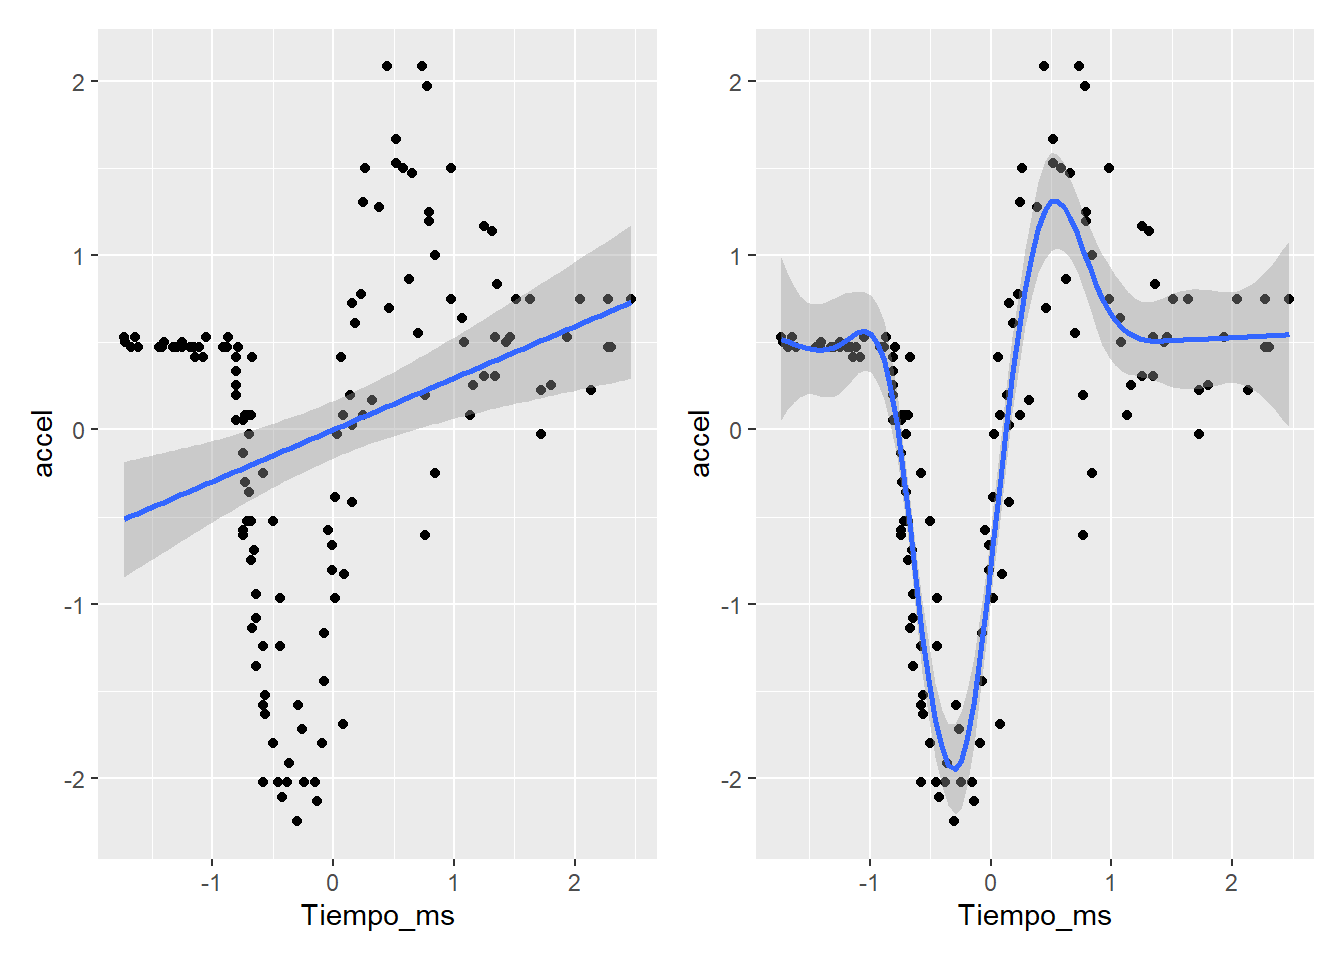
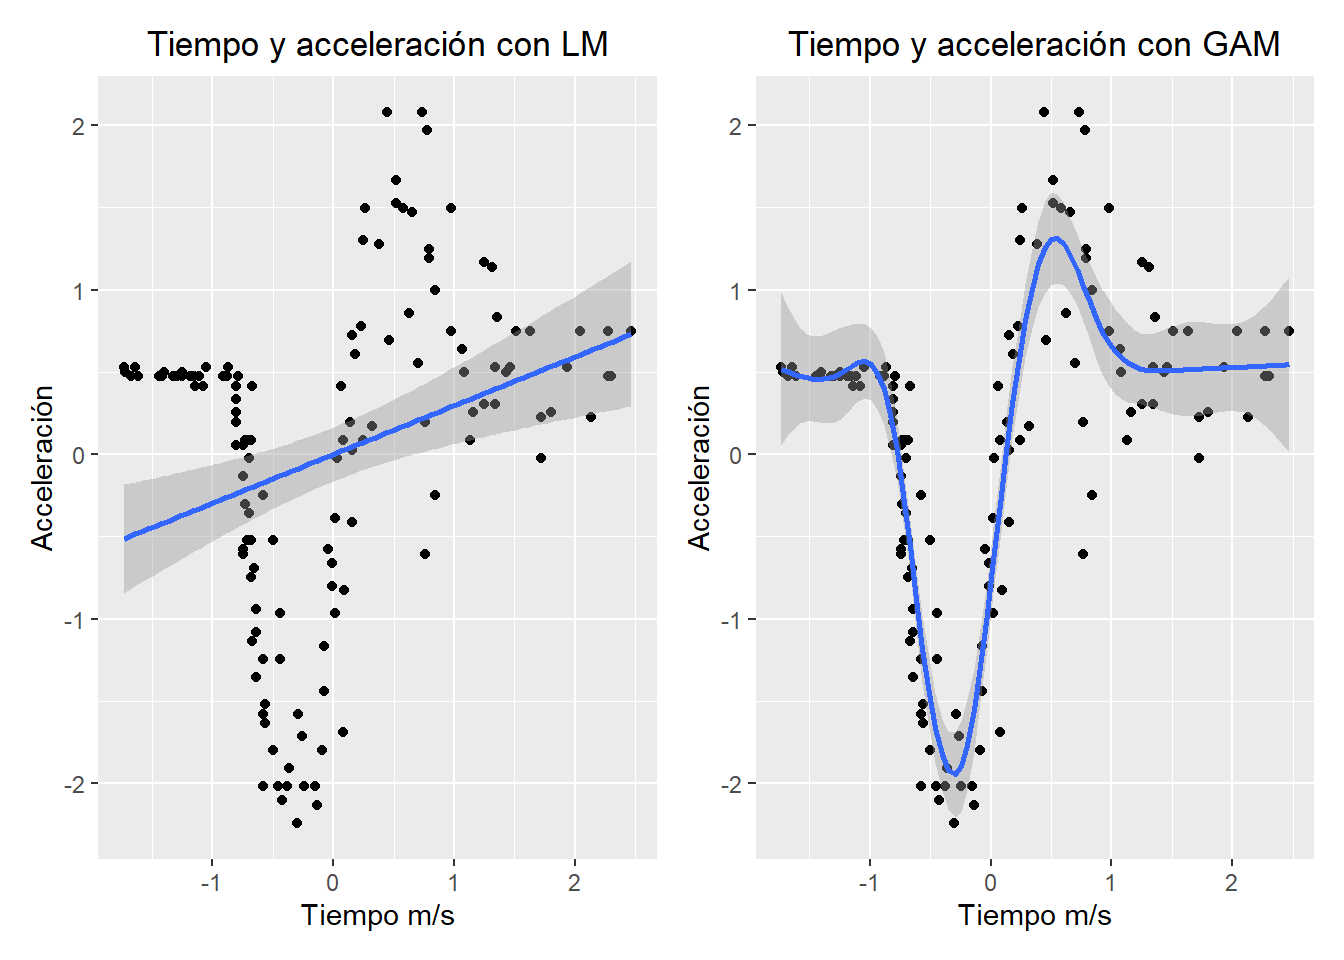
Finalizado C10

diff --git a/docs/C10-modelosnonparametricos.html b/docs/C10-modelosnonparametricos.html
@@ -480,9 +480,25 @@ Basis dimension (k) checking results. Low p-value (k-index&lt;1) may
 indicate that k is too low, especially if edf is close to k'.
 
                k'  edf k-index p-value
-s(Tiempo_ms) 9.00 8.69    1.15    0.94</code></pre>
+s(Tiempo_ms) 9.00 8.69    1.15    0.95</code></pre>
 </div>
-<div class="sourceCode cell-code" id="cb19"><pre class="sourceCode r code-with-copy"><code class="sourceCode r"><span id="cb19-1"><a href="#cb19-1" aria-hidden="true" tabindex="-1"></a><span class="fu">summary</span>(mcgam)</span></code><button title="Copy to Clipboard" class="code-copy-button"><i class="bi"></i></button></pre></div>
+</div>
+<div class="cell">
+<div class="sourceCode cell-code" id="cb19"><pre class="sourceCode r code-with-copy"><code class="sourceCode r"><span id="cb19-1"><a href="#cb19-1" aria-hidden="true" tabindex="-1"></a><span class="fu">options</span>(<span class="at">scipen=</span><span class="dv">14</span>)</span>
+<span id="cb19-2"><a href="#cb19-2" aria-hidden="true" tabindex="-1"></a><span class="fu">coef</span>(mcgam)</span></code><button title="Copy to Clipboard" class="code-copy-button"><i class="bi"></i></button></pre></div>
+<div class="cell-output cell-output-stdout">
+<pre><code>               (Intercept)             s(Tiempo_ms).1 
+ 0.00000000000000006738798 -1.31861142706740652741360 
+            s(Tiempo_ms).2             s(Tiempo_ms).3 
+ 0.89970612207623523737254 -2.28363927466190208548369 
+            s(Tiempo_ms).4             s(Tiempo_ms).5 
+-0.45902452981953001387438  0.72501937838857033469253 
+            s(Tiempo_ms).6             s(Tiempo_ms).7 
+ 1.92823893195741558059808 -0.19210729728026415541464 
+            s(Tiempo_ms).8             s(Tiempo_ms).9 
+-2.31077678544641162972084  0.36430122408040899184556 </code></pre>
+</div>
+<div class="sourceCode cell-code" id="cb21"><pre class="sourceCode r code-with-copy"><code class="sourceCode r"><span id="cb21-1"><a href="#cb21-1" aria-hidden="true" tabindex="-1"></a><span class="fu">summary</span>(mcgam)</span></code><button title="Copy to Clipboard" class="code-copy-button"><i class="bi"></i></button></pre></div>
 <div class="cell-output cell-output-stdout">
 <pre><code>
 Family: gaussian 
@@ -492,12 +508,12 @@ Formula:
 accel ~ s(Tiempo_ms)
 
 Parametric coefficients:
-             Estimate Std. Error t value Pr(&gt;|t|)
-(Intercept) 6.739e-17  4.036e-02       0        1
+                          Estimate             Std. Error t value Pr(&gt;|t|)
+(Intercept) 0.00000000000000006739 0.04036498563473278622       0        1
 
 Approximate significance of smooth terms:
-               edf Ref.df     F p-value    
-s(Tiempo_ms) 8.693  8.972 53.52  &lt;2e-16 ***
+               edf Ref.df     F             p-value    
+s(Tiempo_ms) 8.693  8.972 53.52 &lt;0.0000000000000002 ***
 ---
 Signif. codes:  0 '***' 0.001 '**' 0.01 '*' 0.05 '.' 0.1 ' ' 1
 
@@ -506,31 +522,16 @@ GCV = 0.23374  Scale est. = 0.2167    n = 133</code></pre>
 </div>
 </div>
 <div class="cell">
-<div class="sourceCode cell-code" id="cb21"><pre class="sourceCode r code-with-copy"><code class="sourceCode r"><span id="cb21-1"><a href="#cb21-1" aria-hidden="true" tabindex="-1"></a><span class="fu">library</span>(gratia)</span></code><button title="Copy to Clipboard" class="code-copy-button"><i class="bi"></i></button></pre></div>
-<div class="cell-output cell-output-stderr">
-<pre><code>Registered S3 method overwritten by 'gratia':
-  method       from  
-  simulate.gam mgcViz</code></pre>
-</div>
-<div class="cell-output cell-output-stderr">
-<pre><code>
-Attaching package: 'gratia'</code></pre>
-</div>
-<div class="cell-output cell-output-stderr">
-<pre><code>The following object is masked from 'package:latticeExtra':
-
-    rootogram</code></pre>
-</div>
-<div class="cell-output cell-output-stderr">
-<pre><code>The following object is masked from 'package:stringr':
-
-    boundary</code></pre>
-</div>
-<div class="sourceCode cell-code" id="cb26"><pre class="sourceCode r code-with-copy"><code class="sourceCode r"><span id="cb26-1"><a href="#cb26-1" aria-hidden="true" tabindex="-1"></a><span class="fu">draw</span>(mcgam, <span class="at">residuals =</span> <span class="cn">TRUE</span>)</span></code><button title="Copy to Clipboard" class="code-copy-button"><i class="bi"></i></button></pre></div>
+<div class="sourceCode cell-code" id="cb23"><pre class="sourceCode r code-with-copy"><code class="sourceCode r"><span id="cb23-1"><a href="#cb23-1" aria-hidden="true" tabindex="-1"></a><span class="fu">library</span>(gratia)</span>
+<span id="cb23-2"><a href="#cb23-2" aria-hidden="true" tabindex="-1"></a>GAM <span class="ot">&lt;-</span> <span class="fu">draw</span>(mcgam, <span class="at">residuals =</span> <span class="cn">TRUE</span>)</span>
+<span id="cb23-3"><a href="#cb23-3" aria-hidden="true" tabindex="-1"></a></span>
+<span id="cb23-4"><a href="#cb23-4" aria-hidden="true" tabindex="-1"></a>GAM <span class="sc">+</span> <span class="fu">ggtitle</span>(<span class="st">"Acceleración por tiempo"</span>)<span class="sc">+</span></span>
+<span id="cb23-5"><a href="#cb23-5" aria-hidden="true" tabindex="-1"></a>  <span class="fu">theme</span>(<span class="at">plot.title =</span> <span class="fu">element_text</span>(<span class="at">hjust =</span> <span class="fl">0.5</span>))<span class="sc">+</span></span>
+<span id="cb23-6"><a href="#cb23-6" aria-hidden="true" tabindex="-1"></a>  <span class="fu">labs</span>(<span class="at">x=</span><span class="st">"Tiempo m/s"</span>, <span class="at">y=</span><span class="st">"Partial effect: acceleración"</span>)</span></code><button title="Copy to Clipboard" class="code-copy-button"><i class="bi"></i></button></pre></div>
 <div class="cell-output-display">
 <div>
 <figure class="figure">
-<p><img src="C10-modelosnonparametricos_files/figure-html/unnamed-chunk-12-1.png" class="img-fluid figure-img" width="672"></p>
+<p><img src="C10-modelosnonparametricos_files/figure-html/unnamed-chunk-13-1.png" class="img-fluid figure-img" width="672"></p>
 </figure>
 </div>
 </div>

diff --git a/docs/C11-Fuerzademodelos.html b/docs/C11-Fuerzademodelos.html
@@ -185,7 +185,7 @@ ul.task-list li input[type="checkbox"] {
           <li class="sidebar-item">
   <div class="sidebar-item-container"> 
   <a href="./C10-modelosnonparametricos.html" class="sidebar-item-text sidebar-link">
- <span class="menu-text">Modelos aditivos generalizados (GAM/MAG)</span></a>
+ <span class="menu-text">Variables con GLM/GAM</span></a>
   </div>
 </li>
           <li class="sidebar-item">
@@ -676,8 +676,8 @@ window.document.addEventListener("DOMContentLoaded", function (event) {
 </script>
 <nav class="page-navigation">
   <div class="nav-page nav-page-previous">
-      <a href="./C10-modelosnonparametricos.html" class="pagination-link" aria-label="Modelos aditivos generalizados (GAM/MAG)">
-        <i class="bi bi-arrow-left-short"></i> <span class="nav-page-text">Modelos aditivos generalizados (GAM/MAG)</span>
+      <a href="./C10-modelosnonparametricos.html" class="pagination-link" aria-label="Variables con GLM/GAM">
+        <i class="bi bi-arrow-left-short"></i> <span class="nav-page-text">Variables con GLM/GAM</span>
       </a>          
   </div>
   <div class="nav-page nav-page-next">
